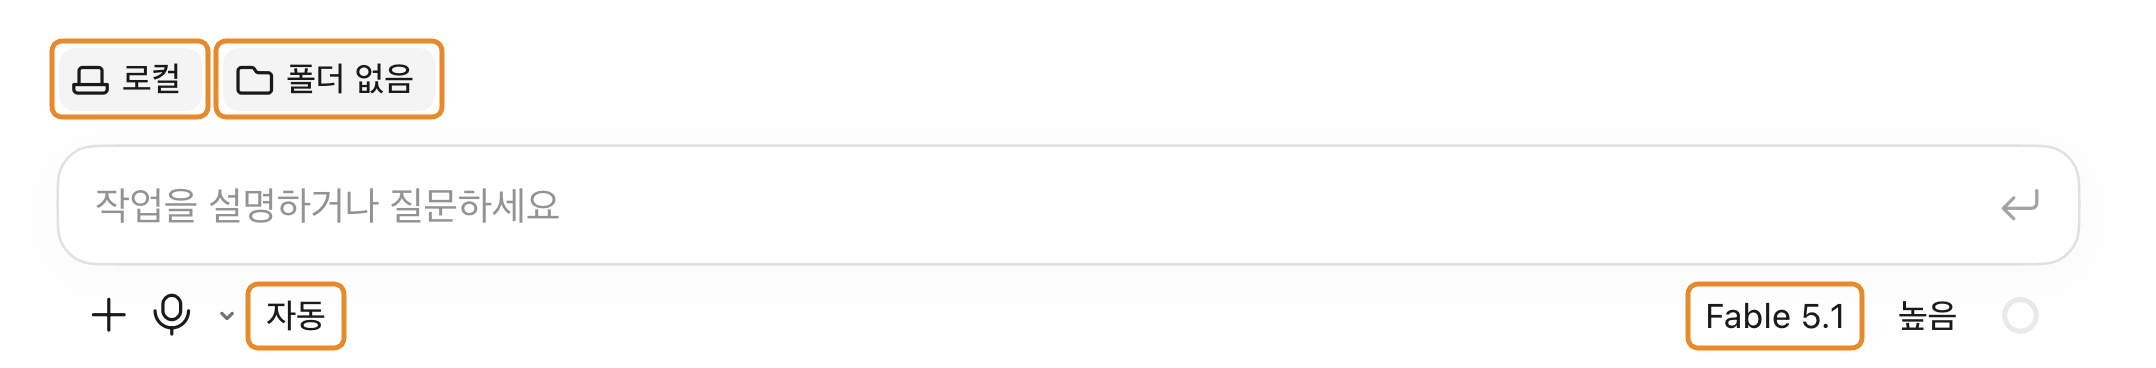
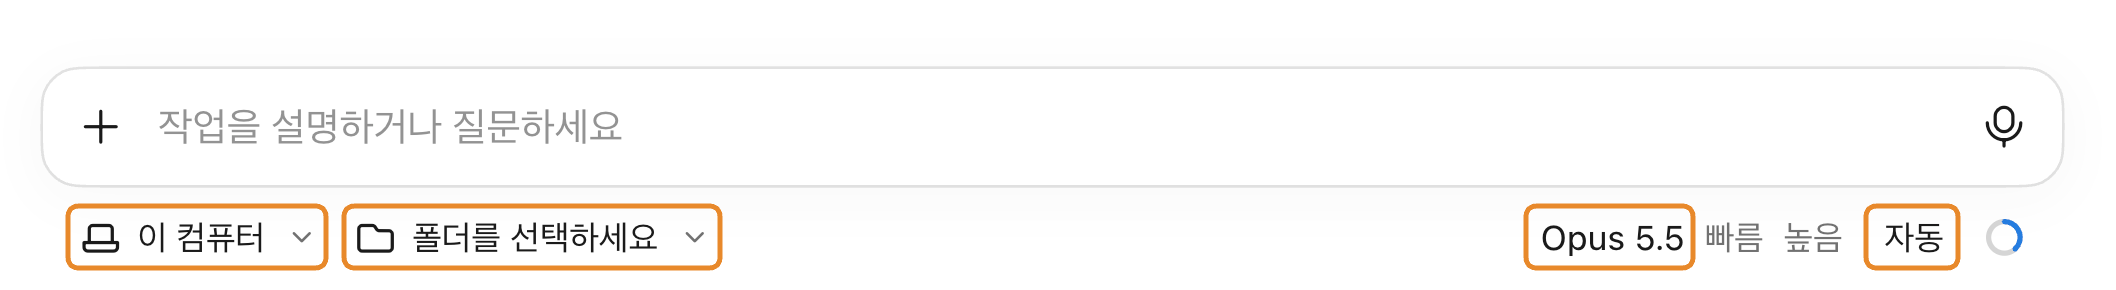
입력창 캡처를 업데이트된 Claude 앱 화면으로 교체
- guides/images/workspace-repo-setup-guide-2.png: 새 화면 캡처(주황 테두리: 환경 · 폴더 · 모델 · 모드)
- 새 배치에 맞춰 위치 설명 수정: 입력창 아래 줄 왼쪽 환경('이 컴퓨터') · 폴더, 오른쪽 모델 · 모드
  (가이드 2개, 사전 안내, 도움말 2개, README 고침 이력)

diff --git a/guides/workspace-repo-setup-guide.md b/guides/workspace-repo-setup-guide.md
@@ -84,11 +84,11 @@ design-thinking-worksheet/
 ## 4. Claude Code에서 작업 폴더 열고 하위 폴더 만들기
 
 1. Claude 데스크톱 앱을 열고 위쪽의 **Code** 탭을 누릅니다.
-2. 입력창 위와 아래를 봅니다. 입력창 위에 **환경 선택**(처음에는 '로컬')과 **폴더 선택**(처음에는 '폴더 없음')이 있습니다. 입력창 아래 줄에는 왼쪽에 **모드 선택**, 오른쪽에 모델 이름이 보이는 **모델 선택**이 있습니다.
+2. 입력창 아래 줄을 봅니다. 왼쪽에 **환경 선택**(처음에는 '이 컴퓨터')과 **폴더 선택**(처음에는 '폴더를 선택하세요')이 있고, 오른쪽에 모델 이름이 보이는 **모델 선택**과 **모드 선택**이 있습니다.
 
-![Claude 데스크톱 앱 Code 탭의 입력창 주변. 입력창 위에 '로컬'이라고 적힌 환경 선택과 '폴더 없음'이라고 적힌 폴더 선택이 있고, 입력창 아래 줄 왼쪽에 '자동'이라고 적힌 모드 선택, 오른쪽에 모델 이름이 적힌 모델 선택이 있다. 네 곳에 주황색 테두리가 쳐져 있다](images/workspace-repo-setup-guide-2.png)
+![Claude 데스크톱 앱 Code 탭의 입력창과 그 아래 줄. 아래 줄 왼쪽에 '이 컴퓨터'라고 적힌 환경 선택과 '폴더를 선택하세요'라고 적힌 폴더 선택이 있고, 오른쪽에 모델 이름이 적힌 모델 선택과 '자동'이라고 적힌 모드 선택이 있다. 네 곳에 주황색 테두리가 쳐져 있다](images/workspace-repo-setup-guide-2.png)
 
-3. **환경 선택**에서 내 컴퓨터(**로컬**, 영어 화면에서는 **Local**)를 고릅니다.
+3. **환경 선택**에서 내 컴퓨터(**이 컴퓨터**)를 고릅니다.
 4. **폴더 선택**을 누르고 `design-thinking-worksheet` 폴더를 고릅니다. 하위 폴더가 아니라 맨 위 폴더를 고릅니다. Mac에서 Claude가 '데스크탑'(또는 '문서') 폴더의 파일에 접근하려 한다는 창이 뜨면 **허용**을 누릅니다.
 5. **모드 선택**은 앞 과목에서 쓰던 대로 둡니다. 처음이라면 파일을 만들거나 고치기 전에 허락을 묻는 모드를 고릅니다. **모델 선택**은 기본 모델 그대로 둡니다. 빠른 응답용 · 경량 모델로 바꾸지 않습니다.
 6. 지시문 킷의 「[작업 폴더 준비 지시문](../kits/claude-code-research-prompts.md)」 코드 상자 안의 글을 통째로 복사해 입력창에 붙여 넣고 보냅니다.

diff --git a/help/stuck-guide.md b/help/stuck-guide.md
@@ -22,7 +22,7 @@
 ### 리서치
 
 - **답이 대화에만 있고 파일이 안 생겼다** → "방금 답을 research/status-report.md 로 저장해 줘. 내용은 바꾸지 마."라고 보냅니다. 파일을 만들지 묻는 창을 거절했거나 놓치지 않았는지도 봅니다. 자세히: 「[Claude Code 리서치 에이전트 사용 가이드](../guides/claude-code-research-agent-guide.md)」
-- **`@`로 가리킨 파일을 못 찾는다고 한다** → 입력창 위 폴더 선택이 `design-thinking-worksheet`인지 보고 "이 폴더에 무엇이 있는지 알려 줘"로 확인합니다. 후보에 뜨지 않는 파일은 `@research/status-report.md`처럼 경로를 끝까지 씁니다. 자세히: 「[Claude Code 리서치 에이전트 사용 가이드](../guides/claude-code-research-agent-guide.md)」
+- **`@`로 가리킨 파일을 못 찾는다고 한다** → 입력창 아래 폴더 선택이 `design-thinking-worksheet`인지 보고 "이 폴더에 무엇이 있는지 알려 줘"로 확인합니다. 후보에 뜨지 않는 파일은 `@research/status-report.md`처럼 경로를 끝까지 씁니다. 자세히: 「[Claude Code 리서치 에이전트 사용 가이드](../guides/claude-code-research-agent-guide.md)」
 - **출처 링크가 열리지 않거나 내용이 다르다** → 그 줄을 "확인 필요"로 고치고 같은 수치를 확인할 수 있는 다른 출처를 찾게 합니다. 끝까지 열리지 않는 링크의 수치는 근거로 쓰지 않습니다. 자세히: 「[Claude Code 리서치 에이전트 사용 가이드](../guides/claude-code-research-agent-guide.md)」
 - **웹을 찾아보지 않고 출처 없이 답한다** → "웹에서 찾아서, 수치마다 출처 링크를 붙여 줘."라고 다시 보냅니다. 웹 검색을 허락할지 묻는 창을 거절했다면 이번에는 허락합니다. 자세히: 「[Claude Code 리서치 에이전트 사용 가이드](../guides/claude-code-research-agent-guide.md)」
 - **같은 말을 되풀이하거나 앞에서 정한 것을 잊는다** → 그 대화는 더 쓰지 않습니다. 남길 수치와 결정을 파일에 옮기게 한 뒤, 새 대화에 그 파일만 `@`로 넘깁니다. 자세히: 「[Claude Code 리서치 에이전트 사용 가이드](../guides/claude-code-research-agent-guide.md)」

diff --git a/README.md b/README.md
@@ -102,7 +102,7 @@
 | 2026-11-20 | 자료실을 열었습니다. 교재 매칭표, 워크시트 원본, 지시문 킷을 올렸습니다. 온라인 가이드 9개와 도움말 3개, 사전 안내는 준비 중이며 수업 전에 채웁니다 |
 | 2026-11-20 | 사전 안내, 온라인 가이드 9개, 도움말 3개(막혔을 때 모음 · 다른 AI 코딩 도구로 할 때 · Windows 사용자 메모)의 내용을 모두 채웠습니다 |
 | 2026-11-20 | 교재의 바뀐 표기(중심 예제 · 참고 사례 · 핵심 세그먼트 · 완료 기준 체크리스트 · JTBD 문장 틀 · 결과에 붙이는 표시어 등)와 새 쪽 번호에 맞춰 가이드 9개 · 도움말 3개 · 사전 안내를 고쳤습니다. 리서치 보고서 가이드의 이름도 교재와 같은 「중심 예제 리서치 보고서 전문」입니다 |
-| 2026-11-22 | 「작업 폴더와 워크시트 저장소 준비 가이드」에 Claude Code 입력창 주변 그림을 넣고, 환경 · 폴더 선택은 입력창 위, 모드 · 모델 선택은 입력창 아래 줄에 있다고 고쳤습니다(사전 안내 · 다른 가이드 · 도움말의 같은 설명도 함께) |
+| 2026-11-22 | 「작업 폴더와 워크시트 저장소 준비 가이드」에 Claude Code 입력창 아래 줄 그림을 넣고, 최신 앱 화면에 맞춰 환경 · 폴더 · 모델 · 모드 선택의 위치와 이름('이 컴퓨터')을 고쳤습니다(사전 안내 · 다른 가이드 · 도움말의 같은 설명도 함께) |
 
 [ws]: https://github.com/wild-mental/ax-wave-design-thinking-wildmental/blob/main/worksheet-template/worksheet.md
 [ws-start]: https://github.com/wild-mental/ax-wave-design-thinking-wildmental/tree/main/worksheet-template
